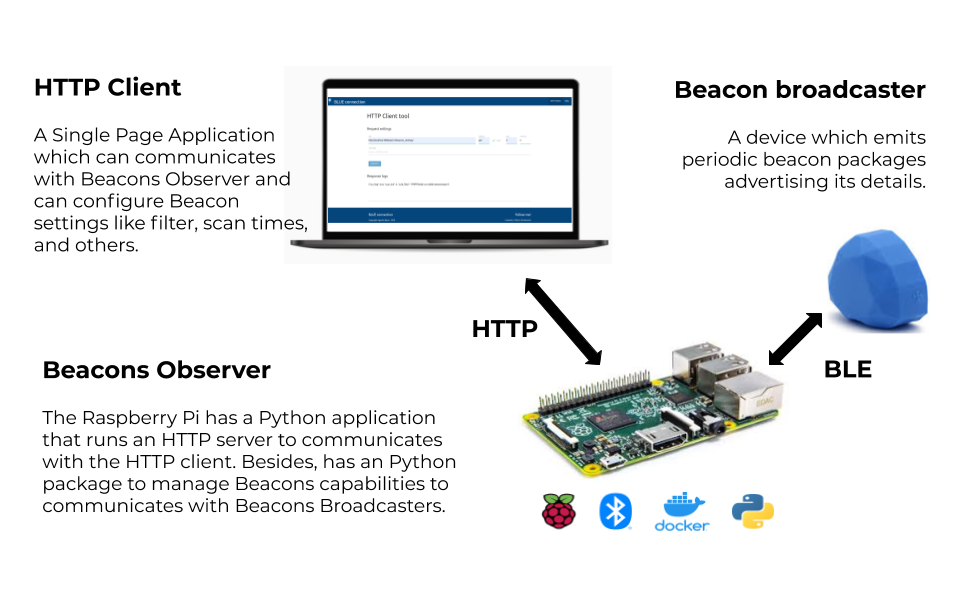
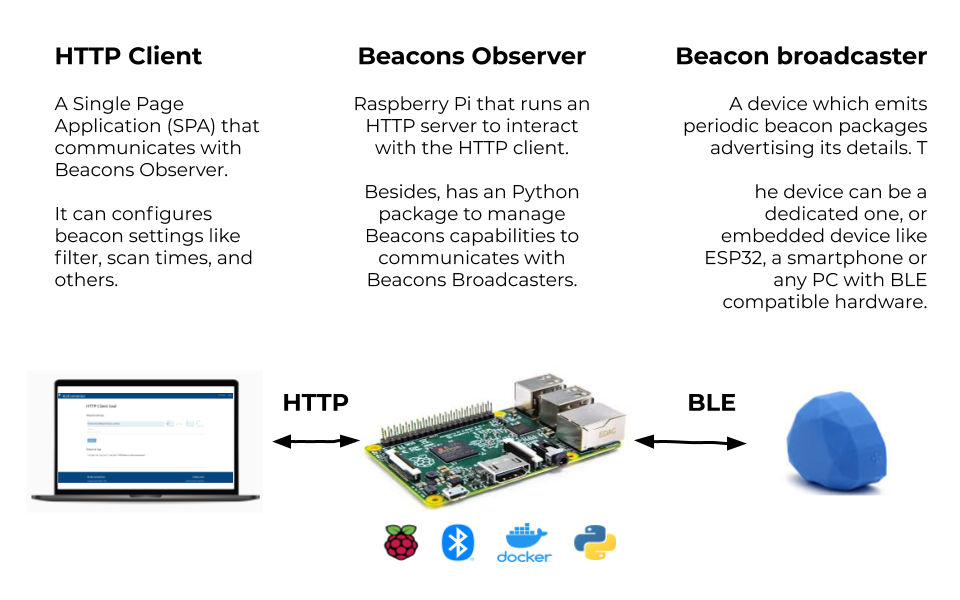
Create CHANGELOG file and update README and architecture

Changed region(s): [[0.0312, 0.06, 0.9688, 0.96], [0.6875, 0.81, 0.8125, 0.9]]

diff --git a/README.md b/README.md
@@ -17,18 +17,18 @@ Author: Agustin Bassi - 2020
 ## 
 ## Platform Description
 
-The goal of this project is to create an open source Bluetooth LE Beacons Platform to be used in any project.
+The goal of this project is to create an open source Bluetooth LE Beacons Platform to be used as a part of an IoT system, based on beacons technology.
 
 The platform consists in several sub-application described below:
 
-* **BLUE Connection - Beacons Observer**: An HTTP REST API with beacon packages scanning features, which can reads different beacon types. By this module you can configure filters, scan time, turn on/off the beacon scanner, and get different beacon-related information like the nearest beacons, the list of beacon read, and many others.  
-* **BLUE Connection - HTTP Client**: An HTTP Client that can executes different HTTP Request to Beacon Scanner API. There, the user can configure Beacon filters, scan time, turn on/off the scanner and other ones.  
-* **BLUE Connection - Beacons Broadcasters**: A bunch of utilities for different platforms to generate beacon packages from devices like ESP32, Linux Systems or event any compatible smartphone.
-* **BLUE Connection - Content Management System**: A CMS to associate each beacon to different content or action.
+* **Beacons Observer**: An HTTP REST API with beacon packages scanning features, which can reads different beacon types. By this module you can configure filters, scan time, turn on/off the beacon scanner, and get different beacon-related information like the nearest beacons, the list of beacon read, and many others.  
+* **HTTP Client**: An HTTP Client that can executes different HTTP Request to Beacon Scanner API. There, the user can configure Beacon filters, scan time, turn on/off the scanner and other ones.  
+* **Beacons Broadcasters**: A bunch of utilities for different platforms to generate beacon packages from devices like ESP32, Linux Systems or event any compatible smartphone.
+* **Content Management System**: A CMS to associate each beacon to different content or action.
 
 All of this parts are well described in the [Project Wiki](https://github.com/agustinBassi/blue-connection/wiki). Please, refer to it in order to get all required information.
 
-In the figure below is a description of the platform modules and how they interact each others.
+In the figure below there is a description of the platform modules and how they interact each others.
 
 ![architecture](doc/images/generals/architecture.png)
 

diff --git a/CHANGELOG.md b/CHANGELOG.md
@@ -1,0 +1,27 @@
+![header](doc/images/generals/header.png)
+
+# BLUE Connection Changes Log
+
+All notable changes to this project will be documented in this file.
+
+The format is based on [Keep a Changelog](http://keepachangelog.com/) and this project adheres to [Semantic Versioning](http://semver.org/).
+
+## 2.0.0
+
+* Architecture based in microservices.
+* HTTP server to configure Beacons Observer.
+* Beacons package, capable of read different beacon formats.
+* Beacons tester for each beacon type.
+* HTTP Client to communicates with Beacons Observer.
+* Linux iBeacon broadcaster (only for develop/test purposes).
+* Wiki documentation.
+* Project board in Github.
+
+## 1.0.0
+
+* First version with CMS within project.
+* Simple beacons observer.
+* Test beacon observer.
+* Application documentation.
+
+![footer](doc/images/generals/footer.png)
